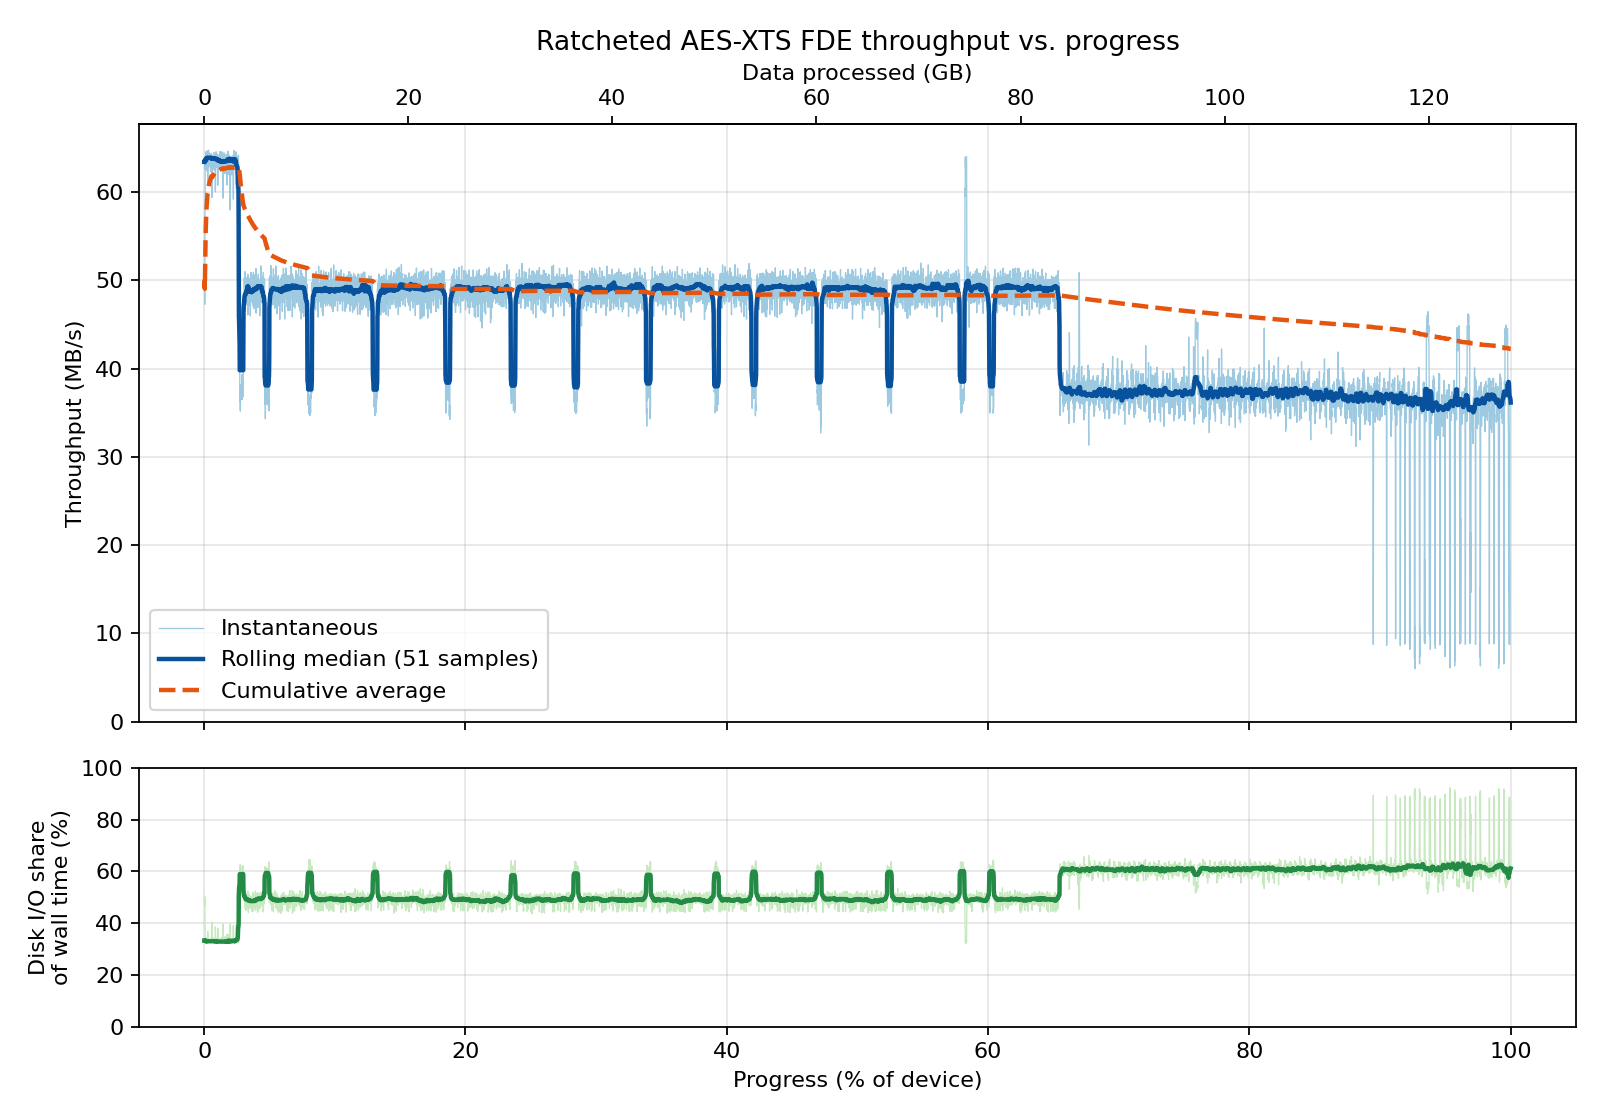
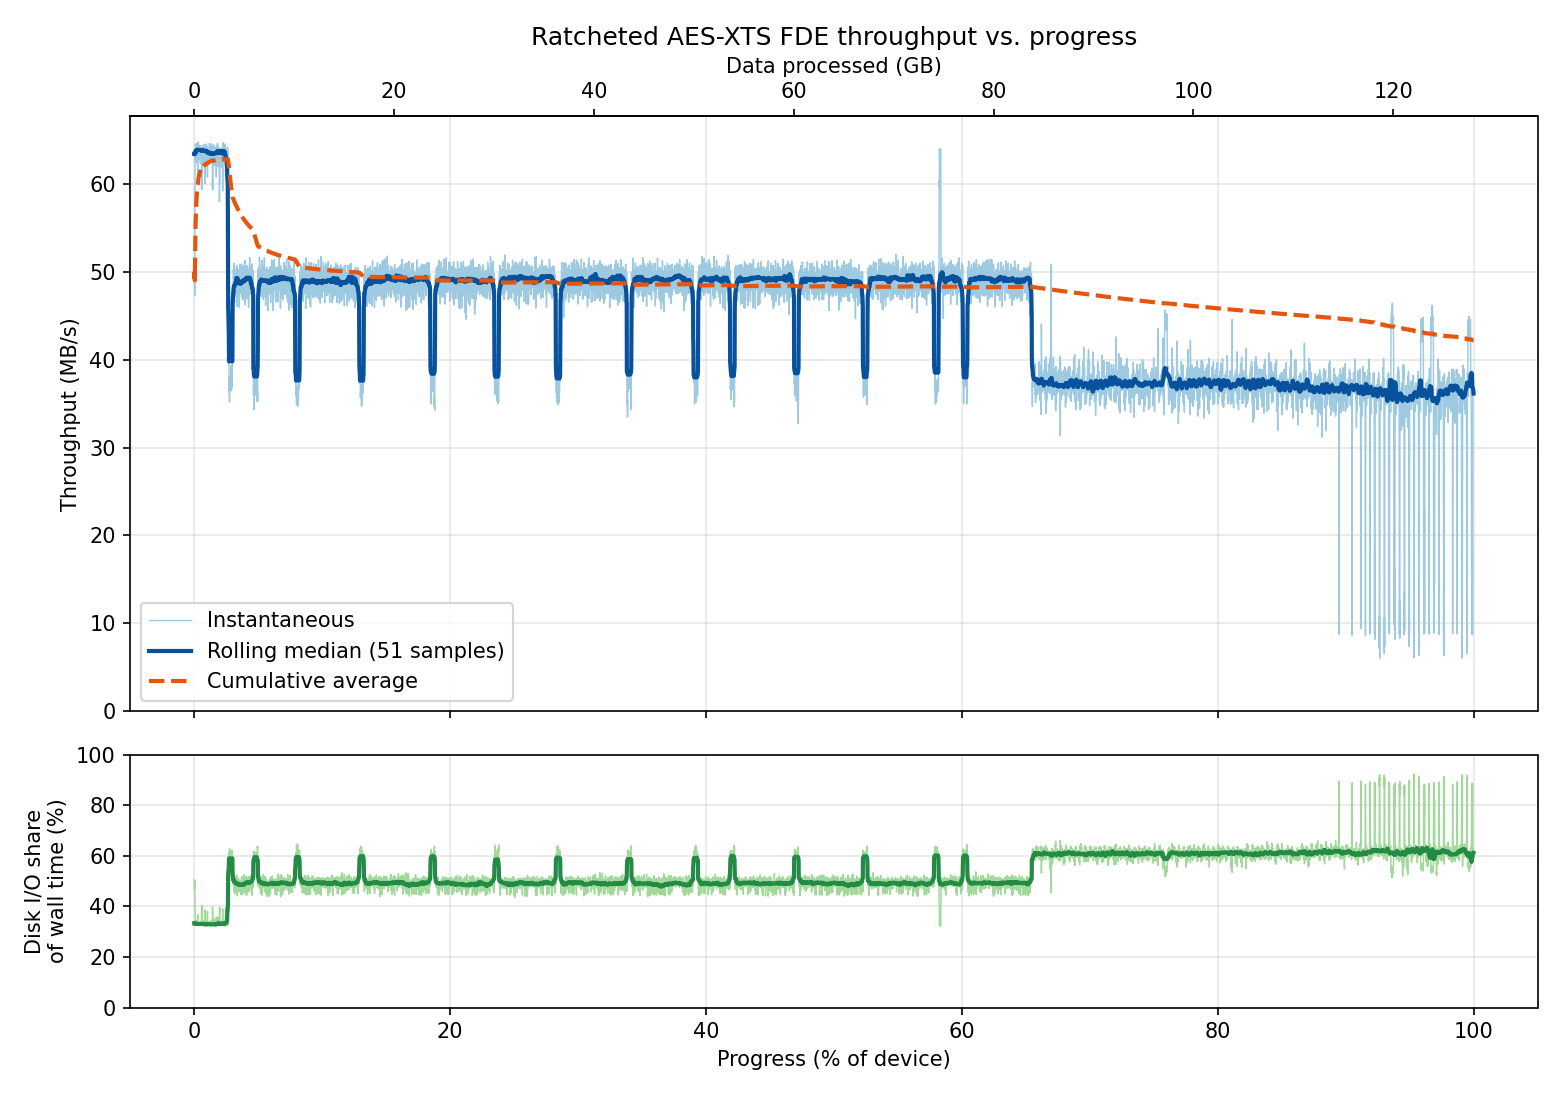
Added ability to change scheme used

diff --git a/fde-drive-0/tests/test_drive.c b/fde-drive-0/tests/test_drive.c
@@ -3,6 +3,7 @@
 #include <stdlib.h>
 #include <stdio.h>
 #include <string.h>
+#include <strings.h>
 #include <fcntl.h>
 #include <unistd.h>
 #include <sys/ioctl.h>
@@ -11,7 +12,7 @@
 
 #define SECTOR_BYTES 4096
 #define BATCH_BYTES (1024 * 1024)
-#define SCHEME FDE_RATCHET_CTR_AES
+#define DEFAULT_SCHEME FDE_RATCHET_CTR_AES
 #define BAR_WIDTH 40
 
 double now_seconds() {
@@ -52,11 +53,65 @@ void print_progress(uint64_t written, uint64_t total, double cumulative_mbps) {
 	fflush(stdout);
 }
 
+static const struct {
+	const char *alias;
+	fde_scheme scheme;
+} scheme_aliases[] = {
+	{"ecb", FDE_ECB},
+	{"xts", FDE_XTS},
+	{"ctr-aes", FDE_RATCHET_CTR_AES},
+	{"ctr-blake3", FDE_RATCHET_CTR_BLAKE3},
+	{"cbc-aes", FDE_RATCHET_CBC_AES},
+	{"cbc-blake3", FDE_RATCHET_CBC_BLAKE3},
+};
+
+int parse_scheme(const char *arg, fde_scheme *out) {
+	for (size_t i = 0; i < sizeof(scheme_aliases) / sizeof(scheme_aliases[0]); i++) {
+		if (strcasecmp(arg, scheme_aliases[i].alias) == 0) {
+			*out = scheme_aliases[i].scheme;
+			return 0;
+		}
+	}
+	for (int i = 0; i < FDE_SCHEME_COUNT; i++) {
+		if (strcasecmp(arg, fde_scheme_name((fde_scheme)i)) == 0) {
+			*out = (fde_scheme)i;
+			return 0;
+		}
+	}
+	return -1;
+}
+
+void print_usage(const char *prog) {
+	fprintf(stderr,
+			"Usage: %s [--scheme <name>] <encrypt/decrypt> <device> [offset_bytes] [count_bytes] [csv_path] [direct]\n"
+			"Schemes (default %s):\n",
+			prog, fde_scheme_name(DEFAULT_SCHEME));
+	for (size_t i = 0; i < sizeof(scheme_aliases) / sizeof(scheme_aliases[0]); i++)
+		fprintf(stderr, "  %-11s %s\n", scheme_aliases[i].alias,
+				fde_scheme_name(scheme_aliases[i].scheme));
+}
+
 int main(int argc, char *argv[]) {
+	fde_scheme scheme = DEFAULT_SCHEME;
+	int nargs = 1;
+	for (int i = 1; i < argc; i++) {
+		if (strcmp(argv[i], "--scheme") == 0 || strcmp(argv[i], "-s") == 0) {
+			if (i + 1 >= argc || parse_scheme(argv[i + 1], &scheme) != 0) {
+				fprintf(stderr, "Unknown or missing scheme%s%s\n",
+						i + 1 < argc ? ": " : "", i + 1 < argc ? argv[i + 1] : "");
+				print_usage(argv[0]);
+				return 1;
+			}
+			i++;
+		}
+		else {
+			argv[nargs++] = argv[i];
+		}
+	}
+	argc = nargs;
+
 	if (argc < 3) {
-		fprintf(stderr,
-				"Usage: %s <encrypt/decrypt> <device> [offset_bytes] [count_bytes] [csv_path] [direct]\n",
-				argv[0]);
+		print_usage(argv[0]);
 		return 1;
 	}
 
@@ -86,6 +141,7 @@ int main(int argc, char *argv[]) {
 
 	size_t io_bytes = use_direct ? BATCH_BYTES : SECTOR_BYTES;
 	uint64_t io_sectors = io_bytes / SECTOR_BYTES;
+	printf("Scheme: %s\n", fde_scheme_name(scheme));
 	if (use_direct) {
 		printf("Using O_DIRECT with batch size of %zu KB\n", io_bytes / 1024);
 	}
@@ -187,15 +243,15 @@ int main(int argc, char *argv[]) {
 		total_io_ns += (uint64_t)((now_seconds() - io_start) * 1e9);
 
 		for (uint64_t i = 0; i < batch_sectors; i++) {
-			uint64_t sector_number = (uint64_t)offset / SECTOR_BYTES + s;
+			uint64_t sector_number = (uint64_t)offset / SECTOR_BYTES + s + i;
 			const void *src = (const char*)in_buf + i * SECTOR_BYTES;
 			void *dst = (char*)out_buf + i * SECTOR_BYTES;
 			int rc;
 
 			if (do_encrypt)
-				rc = fde_encrypt(worker, SCHEME, src, indices, sector_number, blocks, dst, &sector_profile);
+				rc = fde_encrypt(worker, scheme, src, indices, sector_number, blocks, dst, &sector_profile);
 			else
-				rc = fde_decrypt(worker, SCHEME, src, indices, sector_number, blocks, dst, &sector_profile);
+				rc = fde_decrypt(worker, scheme, src, indices, sector_number, blocks, dst, &sector_profile);
 
 			if (rc != 0) {
 				fprintf(stderr, "%s failed at sector %llu",

diff --git a/fde-drive-0/scripts/plot_drive_throughput.py b/fde-drive-0/scripts/plot_drive_throughput.py
@@ -1,0 +1,75 @@
+import argparse
+
+import matplotlib.pyplot as plt
+import pandas as pd
+
+"""
+Usage:
+    python plot_drive_throughput.py [csv_path] [output_png] [--window N] [--device-bytes B] [--title T]
+"""
+
+COLUMNS = ["elapsed_s", "sector", "bytes_done", "instant_MBps", "cumulative_MBps",
+           "seed_ns", "data_ns", "evolution_ns", "io_ns"]
+
+
+def load(csv_path):
+    df = pd.read_csv(csv_path)
+    if len(df.columns) != len(COLUMNS):
+        raise ValueError(f"expected {len(COLUMNS)} columns, got {list(df.columns)}")
+    df.columns = COLUMNS
+    return df
+
+
+def main():
+    p = argparse.ArgumentParser(description=__doc__, formatter_class=argparse.RawDescriptionHelpFormatter)
+    p.add_argument("csv", nargs="?", default="results/drive_throughput.csv")
+    p.add_argument("output", nargs="?", default="figures/throughput_plot.png")
+    p.add_argument("--window", type=int, default=51, help="rolling median window (samples)")
+    p.add_argument("--device-bytes", type=float, default=None,
+                   help="device size for the progress axis (default: final bytes_done)")
+    p.add_argument("--title", default="Ratcheted AES-XTS FDE throughput vs. progress")
+    p.add_argument("--dpi", type=int, default=150)
+    args = p.parse_args()
+
+    df = load(args.csv)
+    device_bytes = args.device_bytes or df["bytes_done"].iloc[-1]
+    progress = df["bytes_done"] / device_bytes * 100
+    gb_per_pct = device_bytes / 1e9 / 100
+
+    roll = lambda s: s.rolling(args.window, center=True, min_periods=1).median()
+
+    # Per-sample disk I/O share: io_ns and elapsed_s are cumulative, so use deltas.
+    d_io = df["io_ns"].diff().fillna(df["io_ns"].iloc[0])
+    d_t = df["elapsed_s"].diff().fillna(df["elapsed_s"].iloc[0]) * 1e9
+    io_share = (d_io / d_t * 100).clip(0, 100)
+
+    fig, (ax1, ax2) = plt.subplots(2, 1, figsize=(10.4, 7.3), sharex=True,
+                                   gridspec_kw={"height_ratios": [2.35, 1]})
+
+    ax1.plot(progress, df["instant_MBps"], color="#9ecae1", lw=0.7, label="Instantaneous")
+    ax1.plot(progress, roll(df["instant_MBps"]), color="#08519c", lw=2,
+             label=f"Rolling median ({args.window} samples)")
+    ax1.plot(progress, df["cumulative_MBps"], color="#e6550d", lw=2, ls="--",
+             label="Cumulative average")
+    ax1.set_ylabel("Throughput (MB/s)")
+    ax1.set_ylim(bottom=0)
+    ax1.grid(alpha=0.3)
+    ax1.legend(loc="lower left")
+    ax1.set_title(args.title)
+    top = ax1.secondary_xaxis("top", functions=(lambda x: x * gb_per_pct, lambda g: g / gb_per_pct))
+    top.set_xlabel("Data processed (GB)")
+
+    ax2.plot(progress, io_share, color="#a1d99b", lw=0.7)
+    ax2.plot(progress, roll(io_share), color="#238b45", lw=2)
+    ax2.set_ylabel("Disk I/O share\nof wall time (%)")
+    ax2.set_ylim(0, 100)
+    ax2.set_xlabel("Progress (% of device)")
+    ax2.grid(alpha=0.3)
+
+    fig.tight_layout()
+    fig.savefig(args.output, dpi=args.dpi)
+    print(f"Saved {args.output}")
+
+
+if __name__ == "__main__":
+    main()

diff --git a/fde-drive-0/README.md b/fde-drive-0/README.md
@@ -10,8 +10,10 @@ Run `make test-drive` to build the files.
 
 To use the program (`build/fde_test_drive`) to encrypt/decrypt a drive, first connect the drive and find where it is located (say `/dev/sda`), then run the following:
 ```
-build/fde_test_drive <encrypt/decrypt> <device> [offset_bytes] [count_bytes] [csv_path] [direct]
+build/fde_test_drive [--scheme <name>] <encrypt/decrypt> <device> [offset_bytes] [count_bytes] [csv_path] [direct]
 ```
+`--scheme` (or `-s`) picks the encryption scheme: `ecb`, `xts`, `ctr-aes` (default), `ctr-blake3`, `cbc-aes` or `cbc-blake3` (full names such as `Ratchet-CBC-AES` also work). With `make test-drive`, pass `DRIVE_SCHEME=<name>`. Decrypt with the same scheme used to encrypt.
+
 So to encrypt the entire drive in `/dev/sda` for example (without buffering, using O_DIRECT flag), and write the timing data into `results/drive_throughput.csv`, run
 ```
 build/fde_test_drive encrypt /dev/sda 0 0 results/drive_throughput.csv direct
